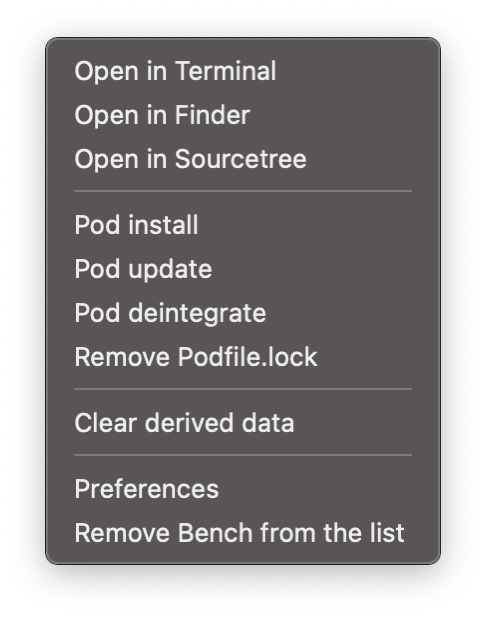
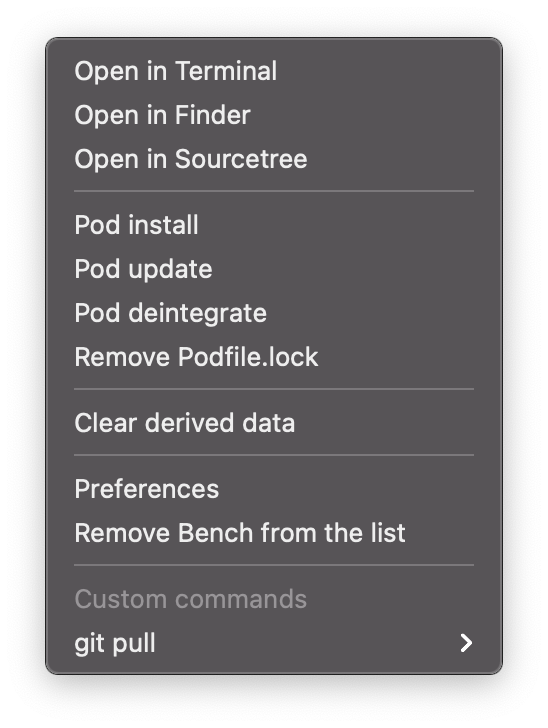
prepare for 1.5 release

Changed region(s): [[0.0617, 0.0307, 0.9259, 0.9531]]

diff --git a/XcodeProjects/UI/Buttons/PreferencesView.swift b/XcodeProjects/UI/Buttons/PreferencesView.swift
@@ -17,7 +17,7 @@ struct PreferencesView: View {
             Button(action: openGithub, label: { Text("Open in GitHub") })
 
             if !self.preferences.projects.isEmpty {
-                Button(action: removeProjects, label: { Text("Remove All Projects") })
+                Button(action: removeProjects, label: { Text("Remove All projects") })
             }
 
             VStack { Divider() }

diff --git a/README.md b/README.md
@@ -1,12 +1,16 @@
 # XcodeProjects
 Switch between projects in 2 clicks. Don't write "pod install", "pod update" and "cd <your project>" in the terminal anymore!<br />
 **NEW**: Remove derived data of particular project!
+**NEW**: Add your custom commands for a project! 
   
 # When do you need this tool
 - you want to open quickly specific Xcode project
+- you want to clear derived data for a specific project only
+- you type "pod install", "pod update" and "pod deintegrate" in the terminal too often. Do it in 2 clicks
+- you need to remove Podfile.lock file quickly
 - you need to change directory to point to your project in the terminal 
-- you type "pod install" and "pod update" in the terminal too often. Do it in 2 clicks
 - you want quickly open your project in SourceTree
+- you want to execute custom command for a project
 - you have a lot of projects or modules/frameworks and you need to switch between them quickly
   
 # How to install
@@ -25,7 +29,7 @@ click "+" button to add folder of you project within system dialog (Hint: choose
 
 **Click "arrows" button to open your Xcode workspace/project**
 
-**Click "..." button to see the options** 
+**Click "..." button to see the menu options** 
 
 ![alt text](Images/example_context_menu_dark.png?raw=true)
 
@@ -49,6 +53,10 @@ click "+" button to add folder of you project within system dialog (Hint: choose
 
 **Remove from the list** - removes project from the list
 
+If you have added custom commands then they would appear at the bottom of the list with option to remove the command
+
+![alt text](Images/custom_command.png?raw=true)
+
 Also it is possible to drag projects around.
 
 ![alt text](Images/example_drag_and_drop_dark.png?raw=true)
@@ -57,13 +65,19 @@ Also it is possible to drag projects around.
 
 ![alt text](Images/preferences_dark.png?raw=true)
 
-**Remove all projects** - removes all projects from XcodeProjects app
+**Open in GitHub** - opens the github webpage of  XcodeProjects
 
-**Show project's icon** - show/hide project's icon next to the project's name
+**Remove all projects** - removes all projects from XcodeProjects app
 
 **Open derived data in Finder** - opens Xcode derived data folder in Finder
 
 **Clear Xcode derived data** - removes Xcode derived data from default location ~/Library/Developer/Xcode/DerivedData
+
+**Launch at Login** - XcodeProjects app will be launched when MacOS was restarted/started
+
+**Show project's icon** - show/hide project's icon next to the project's name
+
+**Add custom command** - add custom command for all projects
 
 > Hint: Click on project icon to change its color
 
@@ -71,7 +85,7 @@ Also it is possible to drag projects around.
 Just simple star ⭐ will make my life happier :) 
 
 If you want to support this project, feel free to send some coffee money to this [link](https://paypal.me/dkalachniuk)
-If you don't want to spend money, you can still support me if you will share this tool with your colleagues.
+If you don't want to spend money, you can still support me if you will share this tool with your colleagues and/or give me a star.
 
 # Ideas
 - add command to support carthage update
@@ -84,6 +98,7 @@ If you don't want to spend money, you can still support me if you will share thi
 - ~~put action "open in Xcode" in the main view~~
 - ~~remove project's derived data folder~~
 - ~~ability to rename project name~~
+- ~~add ability to add custom command~~
 - add Sparkle framework to check for updates automatically
 
 # Special Thanks
